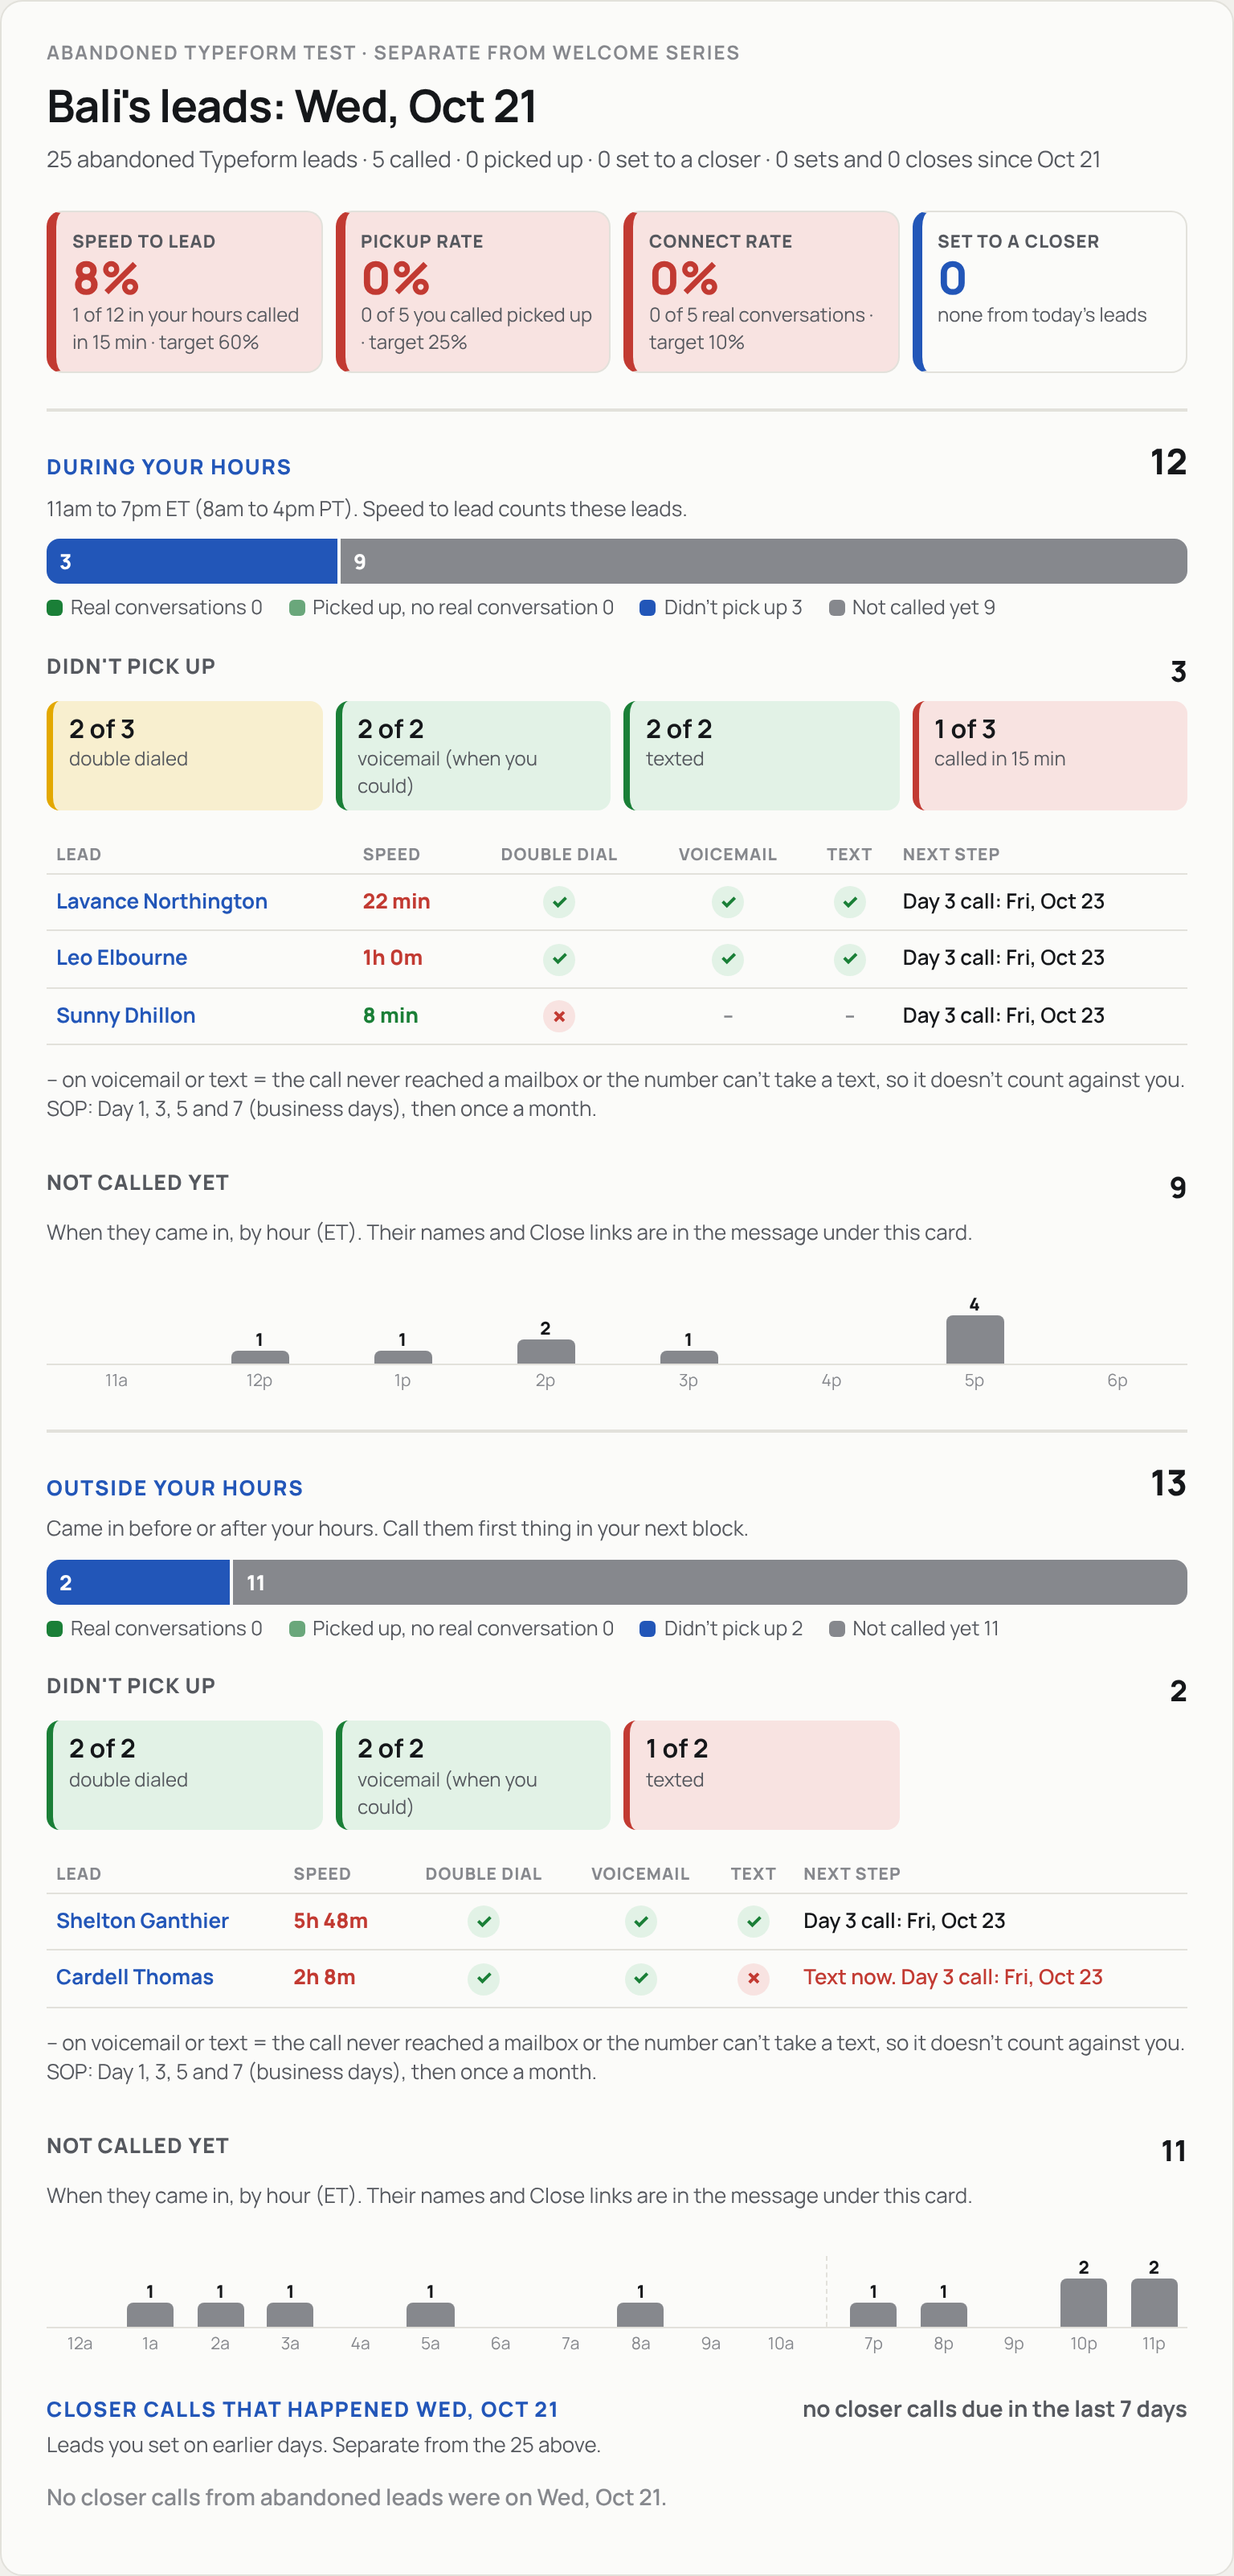
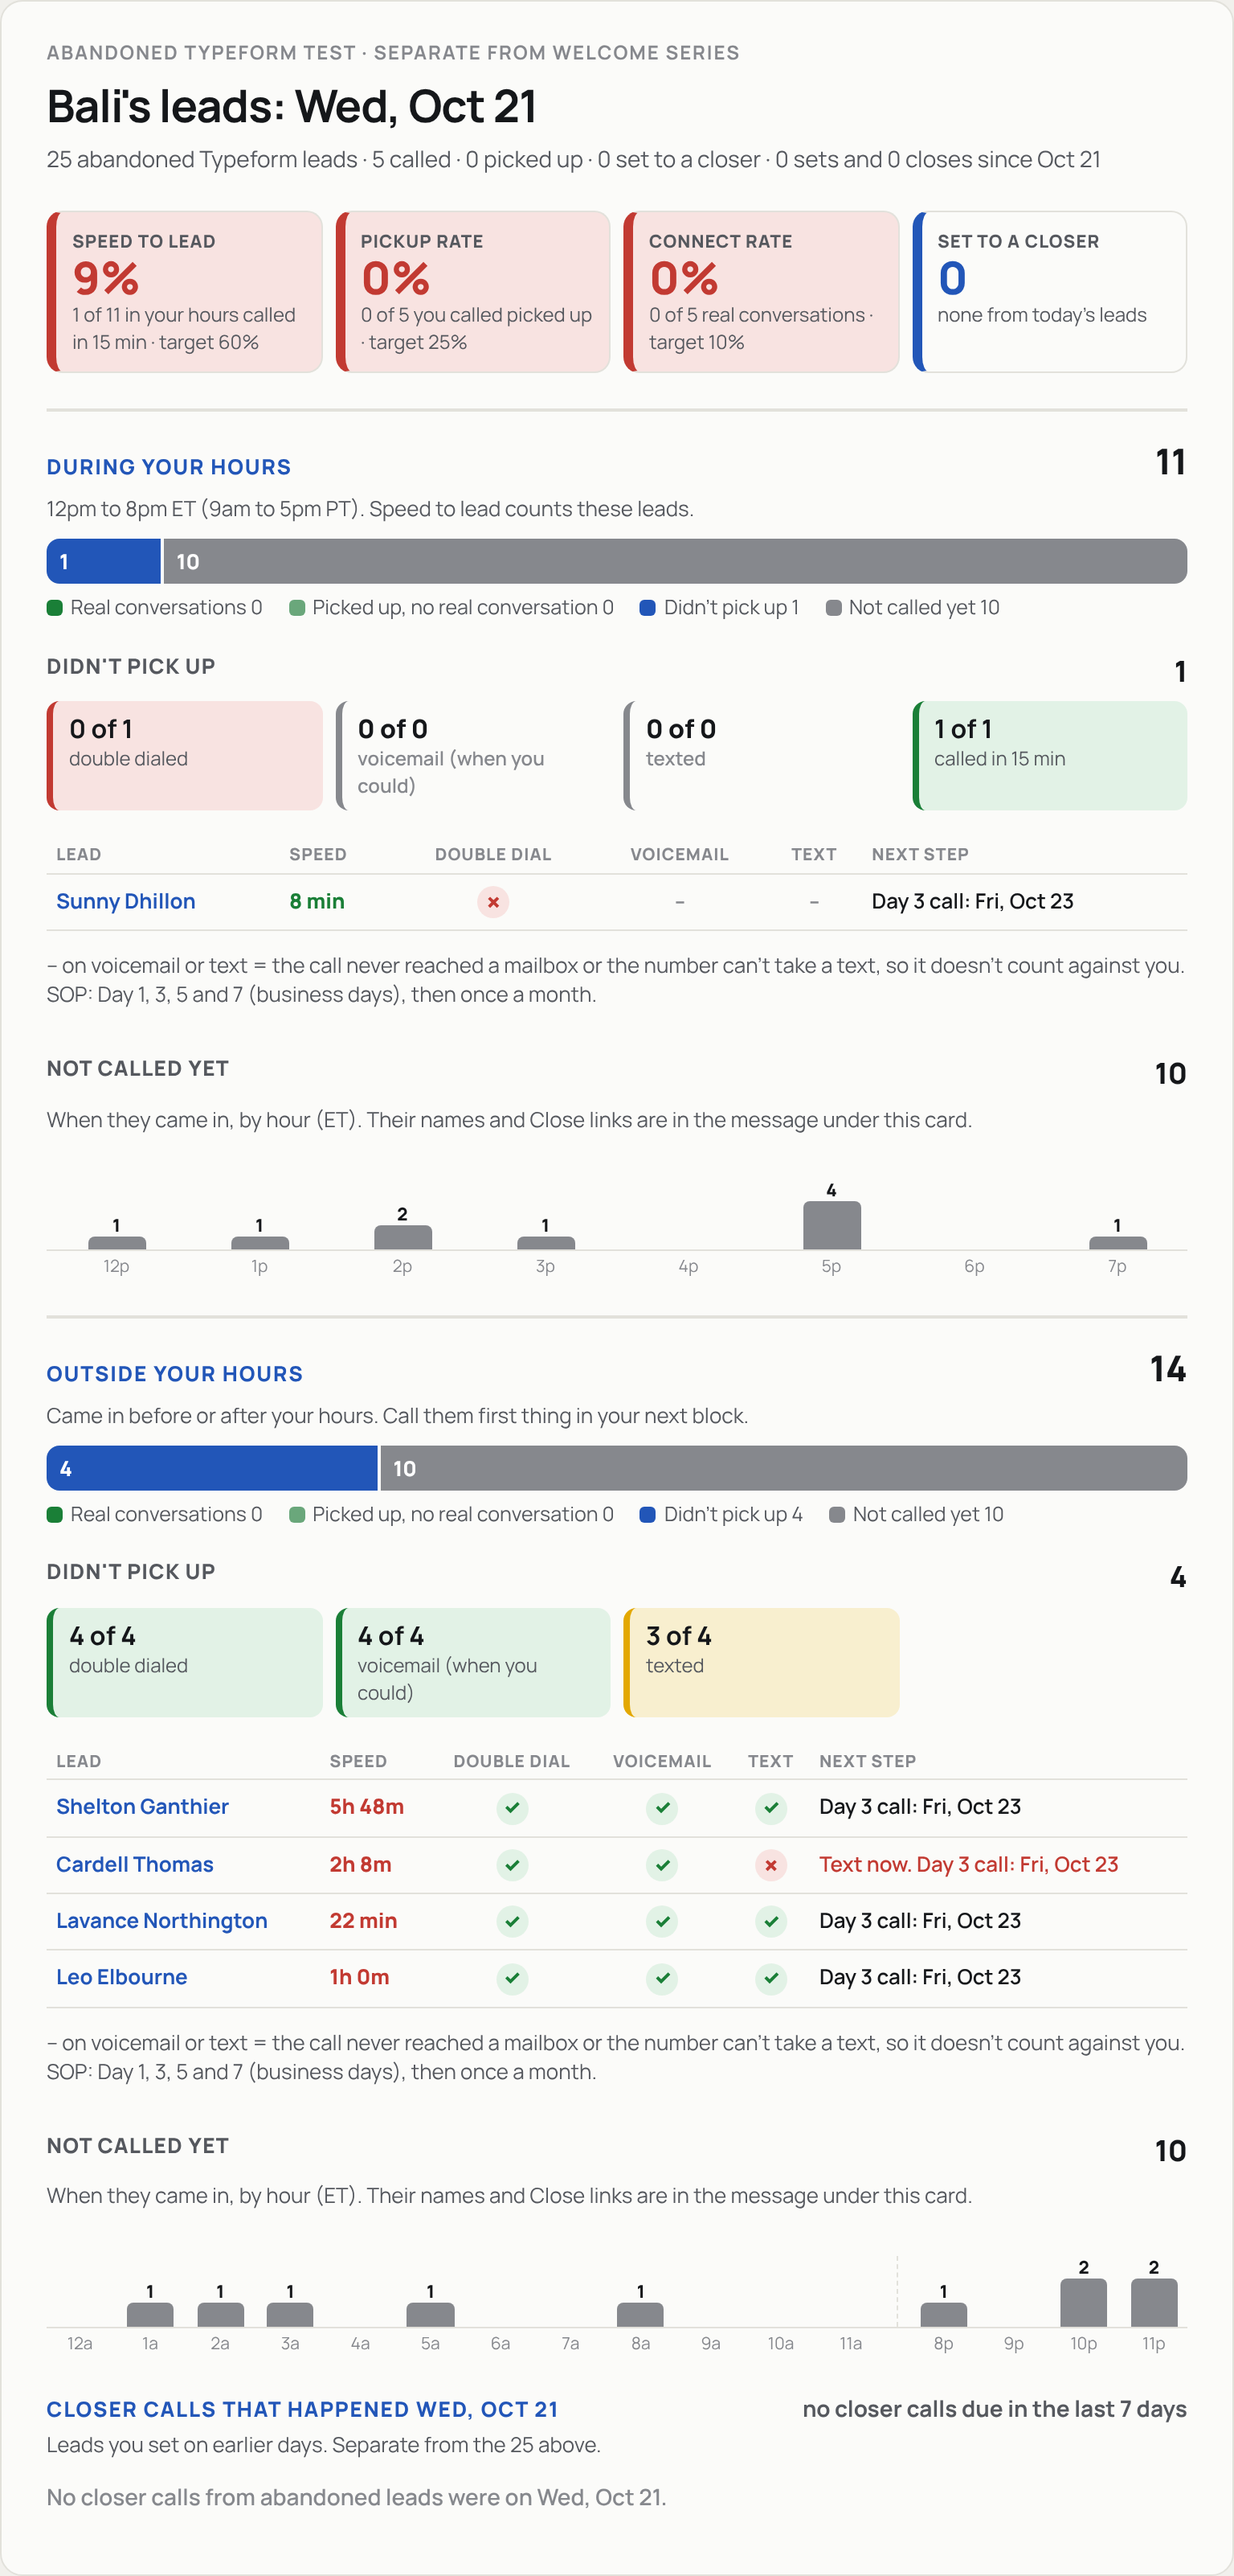
Abandoned Typeform card: send to the group DM C0C11LAF4DB, Bali's 9am-5pm PT hours
Sheila, Oct 22: the card and its Close links message go to C0C11LAF4DB at
about 8am ET; errors go to her own DM only. Work hours now match his
Welcome Series card (12pm to 8pm ET).

Claude-Session: https://claude.ai/code/session_01BP1BE6pQipixhMf1aeMRqA

diff --git a/kit/bali_abandoned.py b/kit/bali_abandoned.py
@@ -19,7 +19,7 @@ MONTHLY_DAYS = 30                   # then one call a month after Day 7
 # Bali's work hours for this list (Sheila, Oct 22): his 8 busiest dialing hours inside the 7am to 5pm PT he gave her,
 # as ET hours [start, end). Speed to lead counts only leads that enter the bucket in these hours, and the card splits
 # the day's leads into in hours and outside them. The Welcome Series WORK window in bali_cover.py is not changed.
-AB_HOURS = (11, 19)   # 11am to 7pm ET = 8am to 4pm PT (provisional, from his Oct 16 and Oct 21 dialing)
+AB_HOURS = (12, 20)   # 12pm to 8pm ET = 9am to 5pm PT, the same hours as his Welcome Series card (SETTERS in bali_show.py)
 _AB = {}
 
 def bday_add(d, n):

diff --git a/prompts/abandoned-typeform-routine.md b/prompts/abandoned-typeform-routine.md
@@ -1,16 +1,16 @@
 # Routine: "Bali Abandoned Type Form" (weekdays, lands about 8am ET)
 
-Created Oct 21, 2026 at Sheila's request. Fires a fresh Claude Code cloud session each weekday at 7:35am ET (`CRON_TZ=America/New_York 35 7 * * 1-5`) so the card is in Sheila's Slack DM by about 8am. The prompt below is the routine's stored prompt, word for word.
+Created Oct 21, 2026 at Sheila's request. Fires a fresh Claude Code cloud session each weekday at 7:35am ET (`CRON_TZ=America/New_York 35 7 * * 1-5`) so the card is in the Slack group DM C0C11LAF4DB by about 8am (Sheila, Oct 22, 2026; it went to her own DM before). Trigger `trig_016jNL7TResT5jL1FTpdD3th`. The prompt below is the routine's stored prompt, word for word.
 
 ```
-You are sending Sheila Xu (sheila@smbdealhunter.xyz) Bali's daily Abandoned Typeform card. It goes ONLY to Sheila's own Slack DM (channel D0BLE68V517), titled "Bali Abandoned Type Form". Never message Bali, never post in any channel, never write to Close.
+You are sending Bali's daily Abandoned Typeform card for Sheila Xu (sheila@smbdealhunter.xyz). The card and its Close links message go ONLY to the Slack group DM C0C11LAF4DB (Sheila, Bali, Zain, Helen, Jay), titled "Bali Abandoned Type Form". Problems and errors go ONLY to Sheila's own DM D0BLE68V517, never to the group. Never post anywhere else, never DM Bali, never write to Close.
 
 1. Get the repo: work from github.com/sheila-smbdh/outbound-setter, branch main. If it isn't already checked out, attach it with add_repo (owner sheila-smbdh, repo outbound-setter, read access) and clone it. Read CLAUDE.md and docs/ABANDONED-TYPEFORM.md and follow its "Daily run" section; if this prompt and that doc disagree, the doc wins.
 2. D = the previous weekday in America/New_York (Monday uses Friday).
-3. Load the Composio tools with ToolSearch (COMPOSIO_REMOTE_WORKBENCH). In the workbench, make /mnt/files/bali_metrics.py, bali_cover.py, bali_show.py and bali_abandoned.py match the repo's kit/ copies by md5 (write the repo copy when missing or different; base64 is the safe way to send a file). Exec all four in that order (import datetime as dt, json, threading, traceback first). Each workbench call is cut off after about 60 seconds, so start the run in a thread: R={}; def ab_job(): R['m']=run_abandoned(dt.date(Y,M,D)) (catch exceptions into R['err']); TH=threading.Thread(target=ab_job); TH.start(); TH.join(20). Then call TH.join(20) in later cells until it finishes (about 3 to 5 minutes). A connection reset from Close: rerun once. Then return json.dumps(R['m'], default=str) (in parts if truncated).
+3. Load the Composio tools with ToolSearch (COMPOSIO_REMOTE_WORKBENCH). In the workbench, make /mnt/files/bali_metrics.py, bali_cover.py, bali_show.py and bali_abandoned.py match the repo's kit/ copies by md5 (write the repo copy when missing or different; base64 is the safe way to send a file). Exec all four in that order (import datetime as dt, json, threading, traceback first). The workbench is shared with other sessions, so use variable names starting with ABR_ and save results to /mnt/files/abr-D.json in the same cell. Each workbench call is cut off after about 60 seconds, so start the run in a thread: ABR={}; def abr_job(): ABR['m']=run_abandoned(dt.date(Y,M,D)) (catch exceptions into ABR['err']); ABR_TH=threading.Thread(target=abr_job); ABR_TH.start(); ABR_TH.join(20). Then call ABR_TH.join(20) in later cells until it finishes (about 3 to 5 minutes). A connection reset from Close: rerun once. Then return json.dumps(ABR['m'], default=str) (in parts if truncated, or zlib plus base64).
 4. Save it as metrics.json and render: pip install playwright if needed (never run "playwright install"), then CHROMIUM_PATH=/opt/pw-browsers/chromium python3 kit/abandoned_build.py metrics.json out. Look at out/scorecard-D-3-abandoned.png once to check it rendered.
-5. Send it: slack_get_file_upload_url (filename "bali-abandoned-typeform-D.png", exact byte size), POST the bytes with curl (Content-Type image/png), then slack_complete_file_upload with channel_id D0BLE68V517, title "Bali Abandoned Type Form", and initial_comment one line: "Bali Abandoned Type Form: <Weekday, Mon D>: speed X%, follow-ups Y of Z on time, show rate W% (last 7 days), N set to a closer." Use "none today" for any number with nothing to count.
-6. If metrics "dialed" is false (no calls to this list on D and no follow-ups due), skip steps 4 and 5 and send one slack_send_message to D0BLE68V517: "Bali Abandoned Type Form: <Weekday, Mon D>: Close shows no calls from Bali to his Abandoned Typeform leads that day (N leads on his list)."
+5. Send it to C0C11LAF4DB: slack_get_file_upload_url (filename "bali-abandoned-typeform-D.png", exact byte size), POST the bytes with curl (Content-Type image/png), then slack_complete_file_upload with channel_id C0C11LAF4DB, title "Bali Abandoned Type Form", and initial_comment one line: "Bali Abandoned Type Form: <Weekday, Mon D>: speed X%, follow-ups Y of Z on time, show rate W% (last 7 days), N set to a closer." Use "none today" for any number with nothing to count. Then send the contents of out/abandoned-links-D.txt as one slack_send_message to C0C11LAF4DB. Write each message once; no corrections as extra messages.
+6. If metrics "dialed" is false (no leads entered and no calls or follow-ups that day), skip steps 4 and 5 and send one slack_send_message to C0C11LAF4DB: "Bali Abandoned Type Form: <Weekday, Mon D>: no Abandoned Typeform leads or calls that day."
 
-Rules: no em dashes. Never say leads "clicked on the site". Do not change any repo file, counting rule, target or the card layout. If a step fails, send Sheila one or two lines in the same DM saying which step and what you saw. If Composio returns "API key revoked or expired" or another auth error, send Sheila one line in the DM saying the Composio connector needs to be reconnected in Claude's settings, and stop.
+Rules: no em dashes. Never say leads "clicked on the site". Do not change any repo file, counting rule, target or the card layout. If a step fails, send Sheila one or two lines in her own DM D0BLE68V517 saying which step and what you saw, and send nothing to C0C11LAF4DB. If Composio returns "API key revoked or expired" or another auth error, send Sheila one line in D0BLE68V517 saying the Composio connector needs to be reconnected in Claude's settings, and stop.
 ```

diff --git a/docs/ABANDONED-TYPEFORM.md b/docs/ABANDONED-TYPEFORM.md
@@ -2,7 +2,7 @@
 
 Owner: Sheila Xu. Test started Wed, Oct 21, 2026. Card layout: per-lead version approved by Sheila on Oct 22 (`mockups/abandoned-typeform-mockup.png`; first live render `mockups/abandoned-typeform-2026-10-21-live.png`). It replaced the Oct 21 tile layout (`mockups/abandoned-typeform/`). SOP: "Setter Abandoned Typeform Outbound SOP" (Google Doc `1pXszNKbcUglNTqoP74GBn2zarT9USTc-CbH9Ma3kva0`).
 
-This is a third image, separate from the two Welcome Series cards. It goes to Sheila only, as a DM in Slack every weekday at 8am ET, titled "Bali Abandoned Type Form". It never goes to Bali or to a channel.
+This is a third image, separate from the two Welcome Series cards. It goes to the Slack group DM `C0C11LAF4DB` (Sheila, Bali, Zain, Helen, Jay) every weekday at about 8am ET, titled "Bali Abandoned Type Form" (Sheila, Oct 22, 2026; until then it went to her own DM). Nowhere else.
 
 ## Files
 
@@ -17,15 +17,15 @@ This is a third image, separate from the two Welcome Series cards. It goes to Sh
 1. D = the previous weekday in America/New_York (Monday uses Friday).
 2. Workbench (shared with other sessions: keep results in uniquely named variables and save them to a file in the same cell): the copies of `bali_metrics.py`, `bali_cover.py`, `bali_show.py` and `bali_abandoned.py` in `/mnt/files/` must match this repo by md5 (write the repo copy when one is missing or different). Exec them in that order, then run `run_abandoned(D)` in a thread (each workbench call is cut off at about 60 seconds, so start the thread, `join(40)`, and poll in later calls). Dump the dict as JSON.
 3. Render: `CHROMIUM_PATH=<chromium> python3 kit/abandoned_build.py metrics.json out`. Look at the PNG once.
-4. Slack: upload the PNG to Sheila's self-DM `D0BLE68V517` (`slack_get_file_upload_url`, POST the bytes, `slack_complete_file_upload` with `channel_id` D0BLE68V517 and title "Bali Abandoned Type Form"). The comment is one line: "Bali Abandoned Type Form: <Weekday, Mon D>: speed X%, follow-ups Y of Z on time, show rate W%, N set to a closer."
-5. Right after the card, send the contents of `out/abandoned-links-D.txt` as one `slack_send_message` to the same DM, so the lead names can be clicked (the PNG can't hold links).
-6. If Bali made no calls to this list on D and no follow-up was due, send one text line to the same DM instead of the card.
+4. Slack: upload the PNG to the group DM `C0C11LAF4DB` (`slack_get_file_upload_url`, POST the bytes, `slack_complete_file_upload` with `channel_id` C0C11LAF4DB and title "Bali Abandoned Type Form"). The comment is one line: "Bali Abandoned Type Form: <Weekday, Mon D>: speed X%, follow-ups Y of Z on time, show rate W%, N set to a closer."
+5. Right after the card, send the contents of `out/abandoned-links-D.txt` as one `slack_send_message` to the same channel, so the lead names can be clicked (the PNG can't hold links).
+6. If Bali made no calls to this list on D and no follow-up was due, send one text line to the same channel instead of the card.
 
 ## Definitions
 
 - **Bali's list:** leads enrolled in the Close workflow "001- Incomplete Typeform Lead Distribution" (`seq_0i6NE63SCuSdwb4E7kXQc3`, the #partial-submit bucket) whose lead field "Incomplete Typeform User" (`cf_qiVzsFQUYHM2vmDeUg0mbfIrWgvU3ZJmhujqNtWiAhJ`) is Bali. Enrollments from Oct 1 on are checked, so older bucket leads assigned to him count too. The Smart View "Bali - Incomplete Typeform List" uses the same field.
 - **Every number counts only this list.** Call rules are the Welcome Series ones (runbook "Definitions"): pickup, real conversation, voicemail, text, double dial, closer call, show rate, handoff steps.
-- **Work hours (Sheila, Oct 22):** Bali gave his active hours as 7am to 5pm PT; Sheila asked for the 8 hours inside that he actually dials. `AB_HOURS` in `bali_abandoned.py` = 11am to 7pm ET (8am to 4pm PT), provisional: picked from his Oct 16 and Oct 21 dials (the best 8-hour block inside 10am to 8pm ET). Recheck against more days. The Welcome Series window (`WORK` in `bali_cover.py`, 9am to 9pm ET) is not changed.
+- **Work hours (Sheila, Oct 22):** Bali gave his active hours as 7am to 5pm PT; Sheila asked for the 8 hours inside that he actually dials. `AB_HOURS` in `bali_abandoned.py` = 12pm to 8pm ET (9am to 5pm PT), the same 8 hours as his Welcome Series card (`SETTERS` in `bali_show.py`: 89% of his calls Sep 28 to Oct 21 fell in them). Change both together.
 - **Speed to lead:** leads that entered the bucket on D during the work hours (the #partial-submit ping), first Bali call within 15 minutes. Never called that day = miss.
 - **Voicemail, text, double dial:** every lead on the list he dialed on D and didn't reach (the SOP asks for double dial, voicemail and text on every no-answer day, not just Day 1). Do Not Contact leads are left out; voicemail counts only people who gave him a chance to leave one; text leaves out blocked or invalid numbers; double dial counts no-answer calls redialed within 2 minutes.
 - **Pickup and connect rate:** out of people on the list he dialed on D.

diff --git a/CLAUDE.md b/CLAUDE.md
@@ -4,7 +4,7 @@ Read `README.md` first in every new session, then `docs/RUNBOOK.md` before any r
 
 - Owner: Sheila Xu (sheila@smbdealhunter.xyz). Subjects: the Welcome Series setters Bali (Jabali Dumas), Jose Rodriguez and Jordan Kempster, one daily card each (runbook, "Three setters and the v5 cards").
 - Read-only everywhere: never write to Close, never post to Slack, never message Bali, Jose or Jordan. Sheila forwards the scorecard herself.
-  One exception (Sheila, Oct 21, 2026): the Abandoned Typeform card goes to Sheila's own Slack DM (D0BLE68V517) and nowhere else. See `docs/ABANDONED-TYPEFORM.md`.
+  One exception (Sheila, Oct 22, 2026; was her own DM from Oct 21): the Abandoned Typeform card and its Close links message go to the Slack group DM C0C11LAF4DB (Sheila, Bali, Zain, Helen, Jay) and nowhere else. See `docs/ABANDONED-TYPEFORM.md`.
   Second exception (Sheila, Oct 21, 2026): the daily setter scorecards routine sends Bali's, Jose's and Jordan's cards to Sheila's own Slack DM (D0BLE68V517) and nowhere else. See `prompts/setter-scorecards-routine.md`.
 - Close data comes through the Composio remote workbench (`proxy_execute`, `close` toolkit), not the Close MCP connector. Before exec'ing, make the workbench copies of `kit/bali_metrics.py`, `bali_cover.py`, `bali_show.py`, `bali_slack.py` match this repo (md5), then exec them in that order.
 - Do not change counting rules, targets, the card layout or the SOP without Sheila's say-so. Propose doc copy changes as redlines (old and new).
